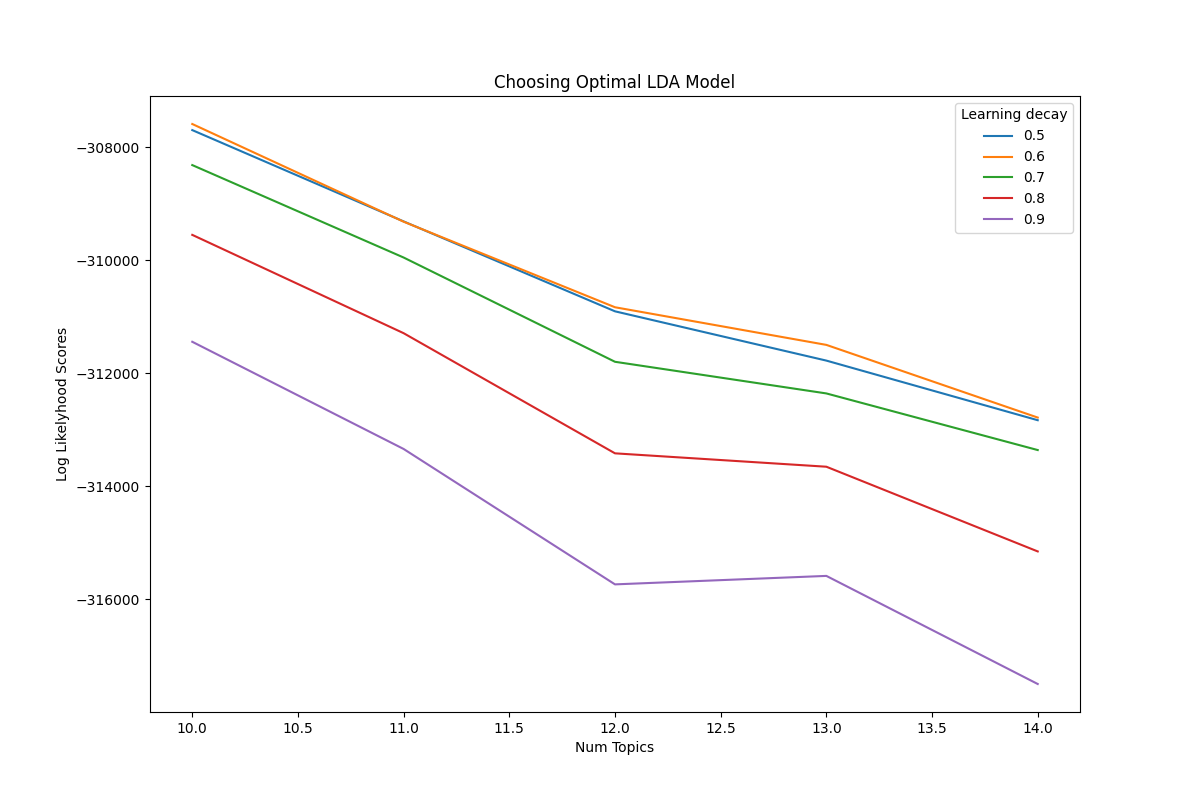
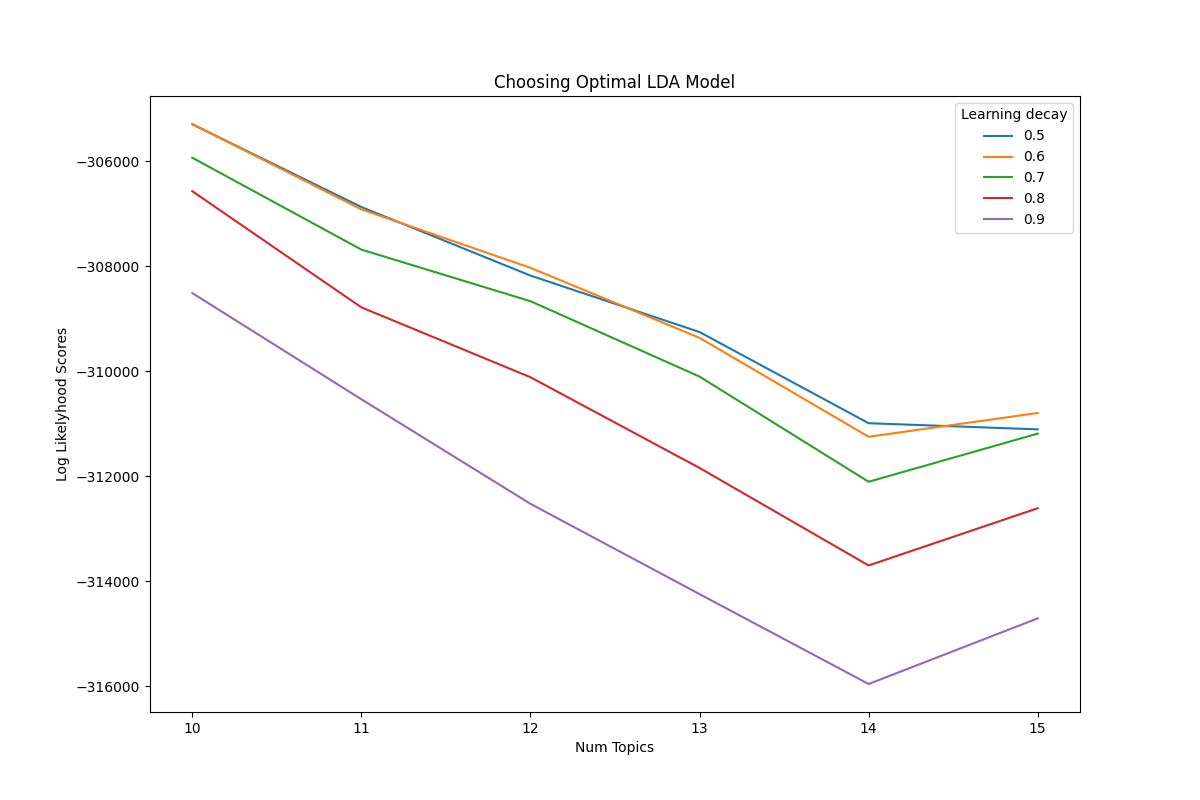
Improved the model by changing some parameters

diff --git a/backend/services/model/ldaModel.py b/backend/services/model/ldaModel.py
@@ -20,17 +20,19 @@ import pandas as pd
     @params:
         dataset_csv (string): name of training dataset csv file, file must have column named "description"
         minimum_df (int): words that occur atleast minimum_df times is considered for the model
+        maximum_df (float): words that occur more than this frequency is ignored
     @return:
         data_vectorized: doc-word matrix
         vectorizer: CountVectorizer class instance used to create doc-word matrix
 """
-def get_data_vectorized(dataset_csv, minimum_df):
+def get_data_vectorized(dataset_csv, minimum_df, maximum_df):
     #Initialize CountVectorizer with configurations to only consider words that occur atleast given minimum_df times
     vectorizer = CountVectorizer(analyzer='word',
                              min_df=minimum_df,
+                             max_df=maximum_df,                # Ignore words more than this frequency
                              stop_words='english',             # remove stop words
                              lowercase=True,                   # convert all words to lowercase
-                             token_pattern='[a-zA-Z0-9]{3,}',  # words should be atleast 3 chars long
+                             token_pattern='[a-zA-Z]{3,}',     # words should be atleast 3 chars long
                              )
     #Read the provided dataset
     descriptions_data=dp.read_data(dataset_csv)
@@ -154,9 +156,10 @@ def predict(query_description, vectorizer,lda_model,df_topic_keywords):
 """
     Creating an LDA model with best parameters predicted by grid search
 """
-# data_vectorized,vectorizer=get_data_vectorized('books.csv',10)
-# lda_model=create_lda_model(data_vectorized,10)
-# df_topic_keywords = show_topics(vectorizer, lda_model,15)
+data_vectorized,vectorizer=get_data_vectorized('books.csv',10,0.8)
+lda_model=create_lda_model(data_vectorized,10)
+visualize_lda_model(lda_model,data_vectorized,vectorizer)
+df_topic_keywords = show_topics(vectorizer, lda_model,15)
 """
     Example code showing how to predict the probability of given text using the LDA model
 """

diff --git a/backend/services/model/modelEvaluation.py b/backend/services/model/modelEvaluation.py
@@ -11,13 +11,13 @@ import matplotlib.pyplot as plt
 """
     Global Variables that are used throughout. The dataset and minimum doc-word frequency can be changed to try different dataset/configuration.
 """
-data_vectorized,vectorizer=get_data_vectorized('books.csv',10)
+data_vectorized,vectorizer=get_data_vectorized('books.csv',10,0.8)
 
 """
     These parameters will be applied during grid search to find the model with best preplexity, log likelihood score and parameters.
     Can be changed to test specific parameters
 """
-search_params = {'n_components': [10,11,12,13,14], 
+search_params = {'n_components': [10,11,12,13,14,15], 
                 'learning_decay': [.5,.6,.7,.8,.9],
                 'random_state':[100], 
                 'n_jobs' :[-1], 
@@ -26,7 +26,7 @@ search_params = {'n_components': [10,11,12,13,14],
 """
     Used to create the evaluation graph
 """
-n_components= [10,11,12,13,14]
+n_components= [10,11,12,13,14,15]
 
 """
     Uses passed dataset and search params to return the result of grid search
@@ -109,6 +109,6 @@ evaluation_graph(grid_search)
 """
     The output for the above code:
         Best Model's Params:  {'learning_decay': 0.6, 'learning_method': 'online', 'n_components': 10, 'n_jobs': -1, 'random_state': 100}
-        Best Log Likelihood Score:  -307591.0757809593
-        Model Perplexity:  2263.8173033815315
+        Best Log Likelihood Score:  -305291.73704079085
+        Model Perplexity:  2222.1323464111842
 """

diff --git a/backend/services/model/service.py b/backend/services/model/service.py
@@ -5,8 +5,8 @@ import bentoml
 from bentoml.io import NumpyNdarray
 
 
-data_vectorized,vectorizer=ldaModel.get_data_vectorized('books.csv',10)
-lda_model=ldaModel.create_lda_model(data_vectorized,20)
+data_vectorized,vectorizer=ldaModel.get_data_vectorized('books.csv',10,0.8)
+lda_model=ldaModel.create_lda_model(data_vectorized,10)
 bentoml.sklearn.save_model("lda_model", lda_model)
 
 lda_model_runner = bentoml.sklearn.get("lda_model:latest").to_runner()
